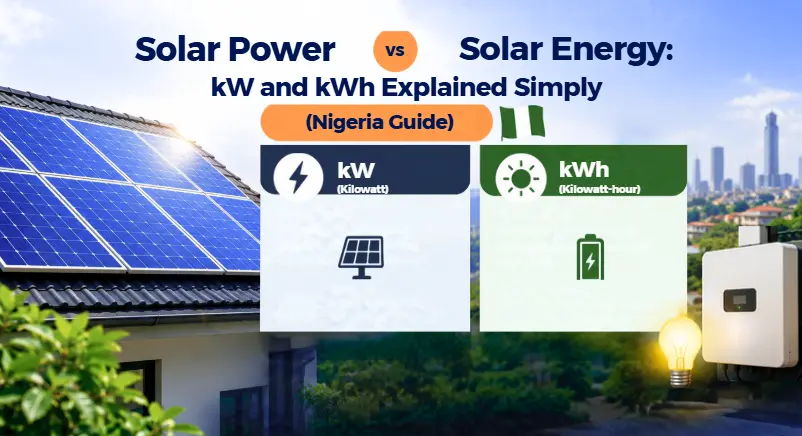
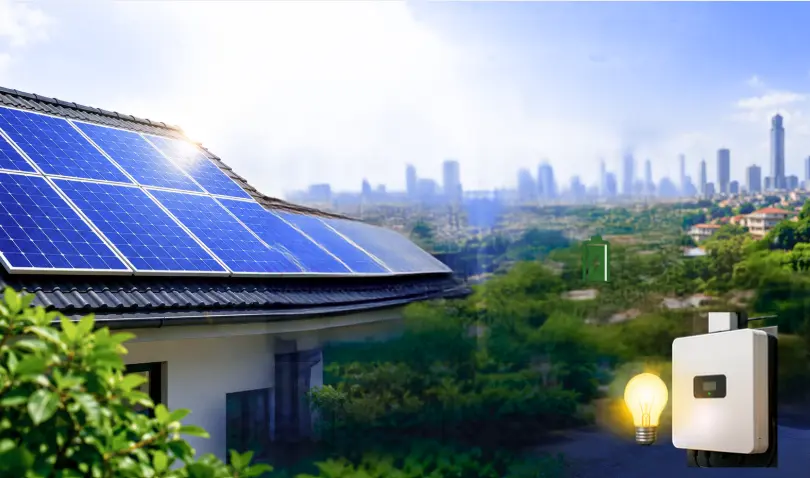
feat: add blog post about CCTV systems, map component, and dynamic blog routes

diff --git a/src/data/blogPosts.ts b/src/data/blogPosts.ts
@@ -12,6 +12,107 @@ export type BlogPost = {
 
 export const blogPosts: BlogPost[] = [
   {
+    id: 12,
+    slug: "why-every-home-business-needs-cctv-system",
+    title: "Why Every Home & Business Needs a CCTV System",
+    date: "October 9, 2026",
+    image: "/cctv-post.webp",
+    description: "In today's world, security is no longer a luxury - it's a necessity. Whether it's your home in Lagos or your business outlet, discover why a CCTV system is one of the smartest investments you can make.",
+    metaDescription: "Discover why every home and business needs a CCTV system in Nigeria: crime prevention, 24/7 remote monitoring, investigations, family protection, and higher property value.",
+    content: `
+      <p>In today's world, security is no longer a luxury &mdash; it's a necessity. Whether it's your home in Lagos or your business outlet, a CCTV system is one of the smartest investments you can make. Here is why:</p>
+
+      <h2 class="text-[#1E3A5F] font-montserrat font-bold mt-8 mb-2">1. Prevents Criminal Activity</h2>
+      <p class="text-slate-600 font-medium italic -mt-1 mb-4">Prevention is better than cure.</p>
+      <ul>
+        <li><strong>Criminals avoid CCTV:</strong> Most thieves and burglars will skip a property that has visible CCTV cameras. They don't want to risk getting caught on camera.</li>
+        <li><strong>Reduces break-ins:</strong> The mere presence of a CCTV system drastically reduces the chance of theft, vandalism, and break-ins.</li>
+      </ul>
+
+      <h2 class="text-[#1E3A5F] font-montserrat font-bold mt-8 mb-2">2. 24/7 Remote Access &amp; Monitoring</h2>
+      <p class="text-slate-600 font-medium italic -mt-1 mb-4">Your security should move with you.</p>
+      <ul>
+        <li><strong>Watch from anywhere:</strong> View live feeds directly from your phone or laptop, whether you are at work, traveling, or at home.</li>
+        <li><strong>Instant alerts:</strong> Get immediate notifications for any suspicious movement or activity.</li>
+        <li><strong>Real-time peace of mind:</strong> Enjoy complete control and security at your fingertips, anytime and anywhere.</li>
+      </ul>
+
+      <h2 class="text-[#1E3A5F] font-montserrat font-bold mt-8 mb-2">3. Supports Crime Investigation</h2>
+      <p class="text-slate-600 font-medium italic -mt-1 mb-4">If the unexpected happens, your CCTV becomes your best witness.</p>
+      <ul>
+        <li><strong>Identify suspects:</strong> Clear footage helps security agencies and police quickly identify culprits.</li>
+        <li><strong>Recover stolen items:</strong> Recorded evidence significantly increases the chances of recovering stolen properties.</li>
+      </ul>
+
+      <h2 class="text-[#1E3A5F] font-montserrat font-bold mt-8 mb-2">4. Protects You &amp; Your Family</h2>
+      <p class="text-slate-600 font-medium italic -mt-1 mb-4">CCTV is not just for catching thieves, it's for caring for your loved ones.</p>
+      <ul>
+        <li><strong>Monitor your family:</strong> Keep an eye on your kids, elderly parents, and home help when you are away.</li>
+        <li><strong>Screen visitors:</strong> See who is at your gate &mdash; whether it's a delivery agent, visitor, or stranger &mdash; before you open the door.</li>
+      </ul>
+
+      <h2 class="text-[#1E3A5F] font-montserrat font-bold mt-8 mb-2">5. Increases Property Value</h2>
+      <p class="text-slate-600 font-medium italic -mt-1 mb-4">CCTV is an investment that pays you back.</p>
+      <ul>
+        <li><strong>Higher resale value:</strong> Homes and business spaces with built-in security systems are more attractive to buyers and tenants.</li>
+        <li><strong>Lower insurance cost:</strong> A well-secured property can reduce your insurance premiums.</li>
+        <li><strong>Long-term value:</strong> CCTV is not an expense, it's an investment in safety and property value.</li>
+      </ul>
+
+      <h2 class="text-[#1E3A5F] font-montserrat font-bold mt-10 mb-3">Final Word:</h2>
+      <p>Don't wait until something happens. A CCTV system gives you prevention, protection, and peace of mind all in one.</p>
+
+      <div class="my-8 rounded-r-xl border-l-4 border-[#EA6936] bg-slate-50 p-6 shadow-sm">
+        <p class="m-0 text-base md:text-lg text-slate-800 font-medium">
+          Need a reliable CCTV installation for your home or business? <a href="/contact" class="font-bold text-[#EA6936] hover:underline">Contact us today for a free consultation and site inspection.</a>
+        </p>
+      </div>
+
+      <section class="mt-16">
+        <h2 class="text-[#1E3A5F] font-montserrat font-bold mb-6">Frequently Asked Questions About CCTV</h2>
+        <div class="mt-8 space-y-4">
+          <details class="group border border-slate-200 bg-white shadow-sm">
+            <summary class="flex cursor-pointer list-none items-center justify-between gap-4 px-6 py-5 font-montserrat font-bold text-slate-800 marker:hidden">
+              <span>Q1: Will CCTV work without internet?</span>
+              <span class="text-xl font-normal text-slate-400 transition-transform duration-200 group-open:rotate-180">⌄</span>
+            </summary>
+            <div class="border-t border-slate-100 px-6 py-5">
+              <p><strong>A:</strong> Yes. Your CCTV system will still record 24/7 to a DVR, NVR or SD card even without internet.</p>
+              <p>However, you will need an internet connection to view the cameras remotely on your phone or to get mobile alerts. Think of it like this: recording works offline, but remote access needs internet.</p>
+            </div>
+          </details>
+
+          <details class="group border border-slate-200 bg-white shadow-sm">
+            <summary class="flex cursor-pointer list-none items-center justify-between gap-4 px-6 py-5 font-montserrat font-bold text-slate-800 marker:hidden">
+              <span>Q2: Can I view my CCTV cameras remotely?</span>
+              <span class="text-xl font-normal text-slate-400 transition-transform duration-200 group-open:rotate-180">⌄</span>
+            </summary>
+            <div class="border-t border-slate-100 px-6 py-5">
+              <p><strong>A:</strong> Yes. Once your system is connected to your router, you can watch live and playback footage from anywhere using your smartphone, tablet or computer.</p>
+              <p>At Embrace Technologies, we set up secure mobile apps for you so you can monitor your home or business 24/7 from Lagos or abroad.</p>
+            </div>
+          </details>
+
+          <details class="group border border-slate-200 bg-white shadow-sm">
+            <summary class="flex cursor-pointer list-none items-center justify-between gap-4 px-6 py-5 font-montserrat font-bold text-slate-800 marker:hidden">
+              <span>Q3: Why is my CCTV showing as "Offline"?</span>
+              <span class="text-xl font-normal text-slate-400 transition-transform duration-200 group-open:rotate-180">⌄</span>
+            </summary>
+            <div class="border-t border-slate-100 px-6 py-5">
+              <p><strong>A:</strong> "Offline" usually means the camera lost connection. The three most common causes are:</p>
+              <ul>
+                <li>A loose or damaged power or network cable.</li>
+                <li>A weak Wi-Fi connection or a router that needs restarting.</li>
+                <li>A power interruption affecting the camera, router or recorder.</li>
+              </ul>
+              <p>Check the power supply and connections first. If the camera remains offline, our technical team can help diagnose the issue and restore your system.</p>
+            </div>
+          </details>
+        </div>
+      </section>
+    `
+  },
+  {
     id: 11,
     slug: "causes-of-solar-fire-outbreaks-and-how-to-prevent-them",
     title: "Causes of Solar Fire Outbreaks and How to Prevent Them",
@@ -338,104 +439,6 @@ export const blogPosts: BlogPost[] = [
       <p>For customers looking for one company that can handle design, installation, energy storage, maintenance and smart technology, Embrace Technologies Limited is the strongest all-round choice on this list.</p>
       <p>Ready to switch to solar?</p>
       <p><a href="/contact" class="font-bold text-[#EA6936] hover:underline">Shop solar products and book a free site inspection</a>.</p>
-    `
-  },
-  {
-    id: 5,
-    slug: "5-reasons-every-home-business-needs-cctv",
-    title: "5 Reasons Why Every Home and Business Needs CCTV",
-    date: "September 10, 2026",
-    image: "/cctv-post.webp",
-    description: "From preventing criminal activity to protecting your family, discover five practical reasons CCTV is a smart investment for every Nigerian home and business.",
-    metaDescription: "Discover five reasons every home and business needs CCTV, including crime prevention, remote monitoring, investigations, family protection and increased property value.",
-    content: `
-      <p>These days in Nigeria, security should not be a luxury, but a necessity. Every home and business deserves a security system they can rely on.</p>
-      <p>This is not just about catching thieves. It is about peace of mind, knowing you are protected in real time. CCTV is your first line of defence.</p>
-      <p>Here are five solid reasons why installing CCTV in your home or business is one of the smartest moves you can make.</p>
-
-      <h2 class="font-montserrat text-[#1E3A5F] font-bold">1. Prevents Criminal Activity</h2>
-      <ul>
-        <li>Criminals avoid homes and business outlets with CCTV.</li>
-        <li>Most burglars will not risk getting caught on camera.</li>
-        <li>Generally, a CCTV system reduces the chances of break-ins.</li>
-      </ul>
-
-      <h2 class="font-montserrat text-[#1E3A5F] font-bold">2. Provides 24/7 Remote Access and Monitoring</h2>
-      <ul>
-        <li>Watch live feeds from your phone or laptop.</li>
-        <li>Receive alerts for suspicious activities.</li>
-        <li>Enjoy real-time security at your fingertips, anytime and anywhere.</li>
-      </ul>
-      <p>With a properly connected system, you can monitor your property whether you are in Lagos, travelling abroad or simply away from the building.</p>
-
-      <h2 class="font-montserrat text-[#1E3A5F] font-bold">3. Supports Crime Investigation</h2>
-      <ul>
-        <li>If a crime happens, footage helps identify suspects.</li>
-        <li>It increases the chances of recovering stolen items.</li>
-      </ul>
-      <p>Recorded footage can provide useful evidence and help security teams or law enforcement understand what happened.</p>
-
-      <h2 class="font-montserrat text-[#1E3A5F] font-bold ">4. Protects You and Your Family</h2>
-      <ul>
-        <li>Monitor kids and family when you are away.</li>
-        <li>Keep an eye on visitors, delivery agents and strangers.</li>
-        <li>Verify who is at your door before opening it.</li>
-      </ul>
-      <p>CCTV gives you greater awareness around your home and helps you make safer decisions before allowing someone onto your property.</p>
-
-      <h2 class="font-montserrat text-[#1E3A5F] font-bold">5. Increases Property Value</h2>
-      <ul>
-        <li>A home or business outlet with a CCTV system is more valuable because buyers prefer properties with built-in security systems.</li>
-        <li>A well-secured home may reduce insurance costs.</li>
-        <li>CCTV is an investment in safety and property value.</li>
-      </ul>
-
-      <h2 class="text-[#1E3A5F]">Your Home and Business Security Starts with CCTV</h2>
-      <p>At <strong>Embrace Technologies Limited</strong>, you can secure your home and business with smart CCTV solutions designed around your property and daily needs.</p>
-      <p><a href="/contact" class="font-bold text-[#EA6936] hover:underline">Contact Embrace Technologies Limited</a> to discuss a reliable CCTV installation for your home or business.</p>
-
-      <section class="mt-20">
-        <h2 class="text-[#1E3A5F]">Frequently Asked Questions About CCTV</h2>
-        <div class="mt-8 space-y-4">
-          <details class="group border border-slate-200 bg-white shadow-sm">
-            <summary class="flex cursor-pointer list-none items-center justify-between gap-4 px-6 py-5 font-montserrat font-bold text-slate-800 marker:hidden">
-              <span>Q1: Will CCTV work without internet?</span>
-              <span class="text-xl font-normal text-slate-400 transition-transform duration-200 group-open:rotate-180">⌄</span>
-            </summary>
-            <div class="border-t border-slate-100 px-6 py-5">
-              <p><strong>A:</strong> Yes. Your CCTV system will still record 24/7 to a DVR, NVR or SD card even without internet.</p>
-              <p>However, you will need an internet connection to view the cameras remotely on your phone or to get mobile alerts. Think of it like this: recording works offline, but remote access needs internet.</p>
-            </div>
-          </details>
-
-          <details class="group border border-slate-200 bg-white shadow-sm">
-            <summary class="flex cursor-pointer list-none items-center justify-between gap-4 px-6 py-5 font-montserrat font-bold text-slate-800 marker:hidden">
-              <span>Q2: Can I view my CCTV cameras remotely?</span>
-              <span class="text-xl font-normal text-slate-400 transition-transform duration-200 group-open:rotate-180">⌄</span>
-            </summary>
-            <div class="border-t border-slate-100 px-6 py-5">
-              <p><strong>A:</strong> Yes. Once your system is connected to your router, you can watch live and playback footage from anywhere using your smartphone, tablet or computer.</p>
-              <p>At Embrace Technologies, we set up secure mobile apps for you so you can monitor your home or business 24/7 from Lagos or abroad.</p>
-            </div>
-          </details>
-
-          <details class="group border border-slate-200 bg-white shadow-sm">
-            <summary class="flex cursor-pointer list-none items-center justify-between gap-4 px-6 py-5 font-montserrat font-bold text-slate-800 marker:hidden">
-              <span>Q3: Why is my CCTV showing as "Offline"?</span>
-              <span class="text-xl font-normal text-slate-400 transition-transform duration-200 group-open:rotate-180">⌄</span>
-            </summary>
-            <div class="border-t border-slate-100 px-6 py-5">
-              <p><strong>A:</strong> "Offline" usually means the camera lost connection. The three most common causes are:</p>
-              <ul>
-                <li>A loose or damaged power or network cable.</li>
-                <li>A weak Wi-Fi connection or a router that needs restarting.</li>
-                <li>A power interruption affecting the camera, router or recorder.</li>
-              </ul>
-              <p>Check the power supply and connections first. If the camera remains offline, our technical team can help diagnose the issue and restore your system.</p>
-            </div>
-          </details>
-        </div>
-      </section>
     `
   },
   {

diff --git a/src/components/ProjectsMap.tsx b/src/components/ProjectsMap.tsx
@@ -1,58 +1,70 @@
-import { CircleMarker, MapContainer, TileLayer, Tooltip } from "react-leaflet";
-import "leaflet/dist/leaflet.css";
+import { motion, useReducedMotion } from "framer-motion";
 
-const projectLocations = [
-  { city: "Lagos", state: "Lagos State", position: [6.5244, 3.3792] as [number, number] },
-  { city: "Ibadan", state: "Oyo State", position: [7.3775, 3.947] as [number, number] },
-  { city: "Osogbo", state: "Osun State", position: [7.7827, 4.5418] as [number, number] },
-  { city: "Abeokuta", state: "Ogun State", position: [7.1475, 3.3619] as [number, number] },
-  { city: "Makurdi", state: "Benue State", position: [7.7322, 8.5391] as [number, number] },
-];
+// The map artwork. Save the image in your /public folder with this name
+// (other assets on the site use the same "./" style paths).
+const MAP_IMAGE_SRC = "./map-project.png";
+const MAP_IMAGE_SIZE = { width: 919, height: 541 };
+
+// Animation timing (seconds). Higher = slower.
+const ORBIT_DURATION = 10; // light travelling around the frame
+const FLOAT_DURATION = 6; // gentle up-and-down drift
+
+// Gold comet: a short bright tail that fades out behind its head.
+const COMET =
+  "conic-gradient(from 0deg, rgba(255,199,89,0) 0deg, rgba(255,199,89,0) 235deg, rgba(255,199,89,0.25) 275deg, rgba(255,199,89,0.95) 352deg, rgba(255,199,89,0) 360deg)";
 
 export function ProjectsMap() {
+  const reduceMotion = useReducedMotion();
+
   return (
     <figure className="w-full">
-      <div className="mb-4 px-1 text-center">
-        <h4 className="font-montserrat text-base font-bold text-slate-900 sm:text-lg">
-          Project locations across Nigeria
-        </h4>
-      </div>
+      {/* The title is part of the image, so a text equivalent is kept for screen readers */}
+      <figcaption className="sr-only">
+        Project locations across Nigeria. Lagos, Ogun, Osun and Oyo are shown in blue for residential and commercial
+        projects. All other states and the FCT are orange for mini-grid and commercial and industrial projects.
+      </figcaption>
 
-      <div className="relative z-0 isolate mx-auto aspect-square w-full max-w-[440px] overflow-hidden rounded-full border-4 border-white shadow-xl ring-1 ring-slate-200">
-        <MapContainer
-          center={[7.8, 5.8]}
-          zoom={5}
-          minZoom={5}
-          maxZoom={10}
-          attributionControl={false}
-          scrollWheelZoom={false}
-          className="h-full w-full"
-          aria-label="Circular map of Nigeria showing project locations by state"
-        >
-          <TileLayer
-            attribution='&copy; <a href="https://www.openstreetmap.org/copyright">OpenStreetMap</a> contributors'
-            url="https://{s}.tile.openstreetmap.org/{z}/{x}/{y}.png"
+      {/* Padding leaves room for the glow and the float movement */}
+      <div className="mx-auto w-full max-w-[680px] px-1 py-5">
+        <div className="relative">
+          {/* Breathing glow behind the map */}
+          <motion.div
+            aria-hidden="true"
+            className="pointer-events-none absolute inset-3 rounded-3xl bg-secondary/25 blur-3xl"
+            animate={reduceMotion ? undefined : { opacity: [0.35, 0.75, 0.35], scale: [0.96, 1.05, 0.96] }}
+            transition={{ duration: 5, repeat: Infinity, ease: "easeInOut" }}
           />
-          {projectLocations.map(({ city, state, position }) => (
-            <CircleMarker
-              key={city}
-              center={position}
-              radius={8}
-              pathOptions={{
-                color: "#ffffff",
-                weight: 3,
-                fillColor: "#0057D9",
-                fillOpacity: 1,
-              }}
-            >
-              <Tooltip>
-                <span className="font-semibold">{city}</span>
-                <br />
-                {state}
-              </Tooltip>
-            </CircleMarker>
-          ))}
-        </MapContainer>
+
+          {/* Frame and map float together so the light never drifts from the edge */}
+          <motion.div
+            className="relative"
+            animate={reduceMotion ? undefined : { y: [0, -8, 0] }}
+            transition={{ duration: FLOAT_DURATION, repeat: Infinity, ease: "easeInOut" }}
+          >
+            {/* Orbit frame: a faint ring with a gold comet running around its edge */}
+            <div className="relative overflow-hidden rounded-3xl bg-primary/10 p-[3px] shadow-xl ring-1 ring-slate-200">
+              <motion.div
+                aria-hidden="true"
+                className="pointer-events-none absolute left-1/2 top-1/2 aspect-square w-[170%]"
+                style={{ background: COMET, x: "-50%", y: "-50%" }}
+                animate={reduceMotion ? undefined : { rotate: 360 }}
+                transition={{ duration: ORBIT_DURATION, repeat: Infinity, ease: "linear" }}
+              />
+
+              <div className="relative overflow-hidden rounded-[21px] bg-white">
+                <img
+                  src={MAP_IMAGE_SRC}
+                  alt="Map of Nigeria showing project locations by state: Lagos, Ogun, Osun and Oyo in blue (residential and commercial), all other states and the FCT in orange (mini-grid and commercial and industrial)."
+                  width={MAP_IMAGE_SIZE.width}
+                  height={MAP_IMAGE_SIZE.height}
+                  loading="lazy"
+                  decoding="async"
+                  className="block h-auto w-full"
+                />
+              </div>
+            </div>
+          </motion.div>
+        </div>
       </div>
     </figure>
   );

diff --git a/src/pages/BlogPost.tsx b/src/pages/BlogPost.tsx
@@ -25,10 +25,10 @@ export function BlogPost() {
         return () => element.removeEventListener("click", handleClick);
     }, [navigate]);
 
-    const currentPost = blogPosts.find((post) => post.slug === slug);
-    const currentIndex = blogPosts.findIndex((post) => post.slug === slug);
+    const currentPost = blogPosts.find((post) => post.slug === slug || (slug === "5-reasons-every-home-business-needs-cctv" && post.slug === "why-every-home-business-needs-cctv-system"));
+    const currentIndex = currentPost ? blogPosts.indexOf(currentPost) : -1;
     const previousPost = currentIndex > 0 ? blogPosts[currentIndex - 1] : null;
-    const nextPost = currentIndex < blogPosts.length - 1 ? blogPosts[currentIndex + 1] : null;
+    const nextPost = currentIndex >= 0 && currentIndex < blogPosts.length - 1 ? blogPosts[currentIndex + 1] : null;
     const isoDate = currentPost ? new Date(currentPost.date).toISOString() : "";
     const siteUrl = "https://www.embracetechng.com";
     const postUrl = currentPost ? `${siteUrl}/blog/${currentPost.slug}` : "";

diff --git a/src/App.tsx b/src/App.tsx
@@ -32,8 +32,8 @@ function AppShell() {
           <Route path="/projects" element={<Projects />} />
           <Route path="/blog" element={<Blog />} />
           <Route path="/blog/:slug" element={<BlogPost />} />
-          <Route path="/shop" element={<Shop />} />
-          <Route path="/shop/:slug" element={<Shop />} />
+          {/* <Route path="/shop" element={<Shop />} /> */}
+          {/* <Route path="/shop/:slug" element={<Shop />} /> */}
           <Route path="/contact" element={<Contact />} />
         </Routes>
       </div>
